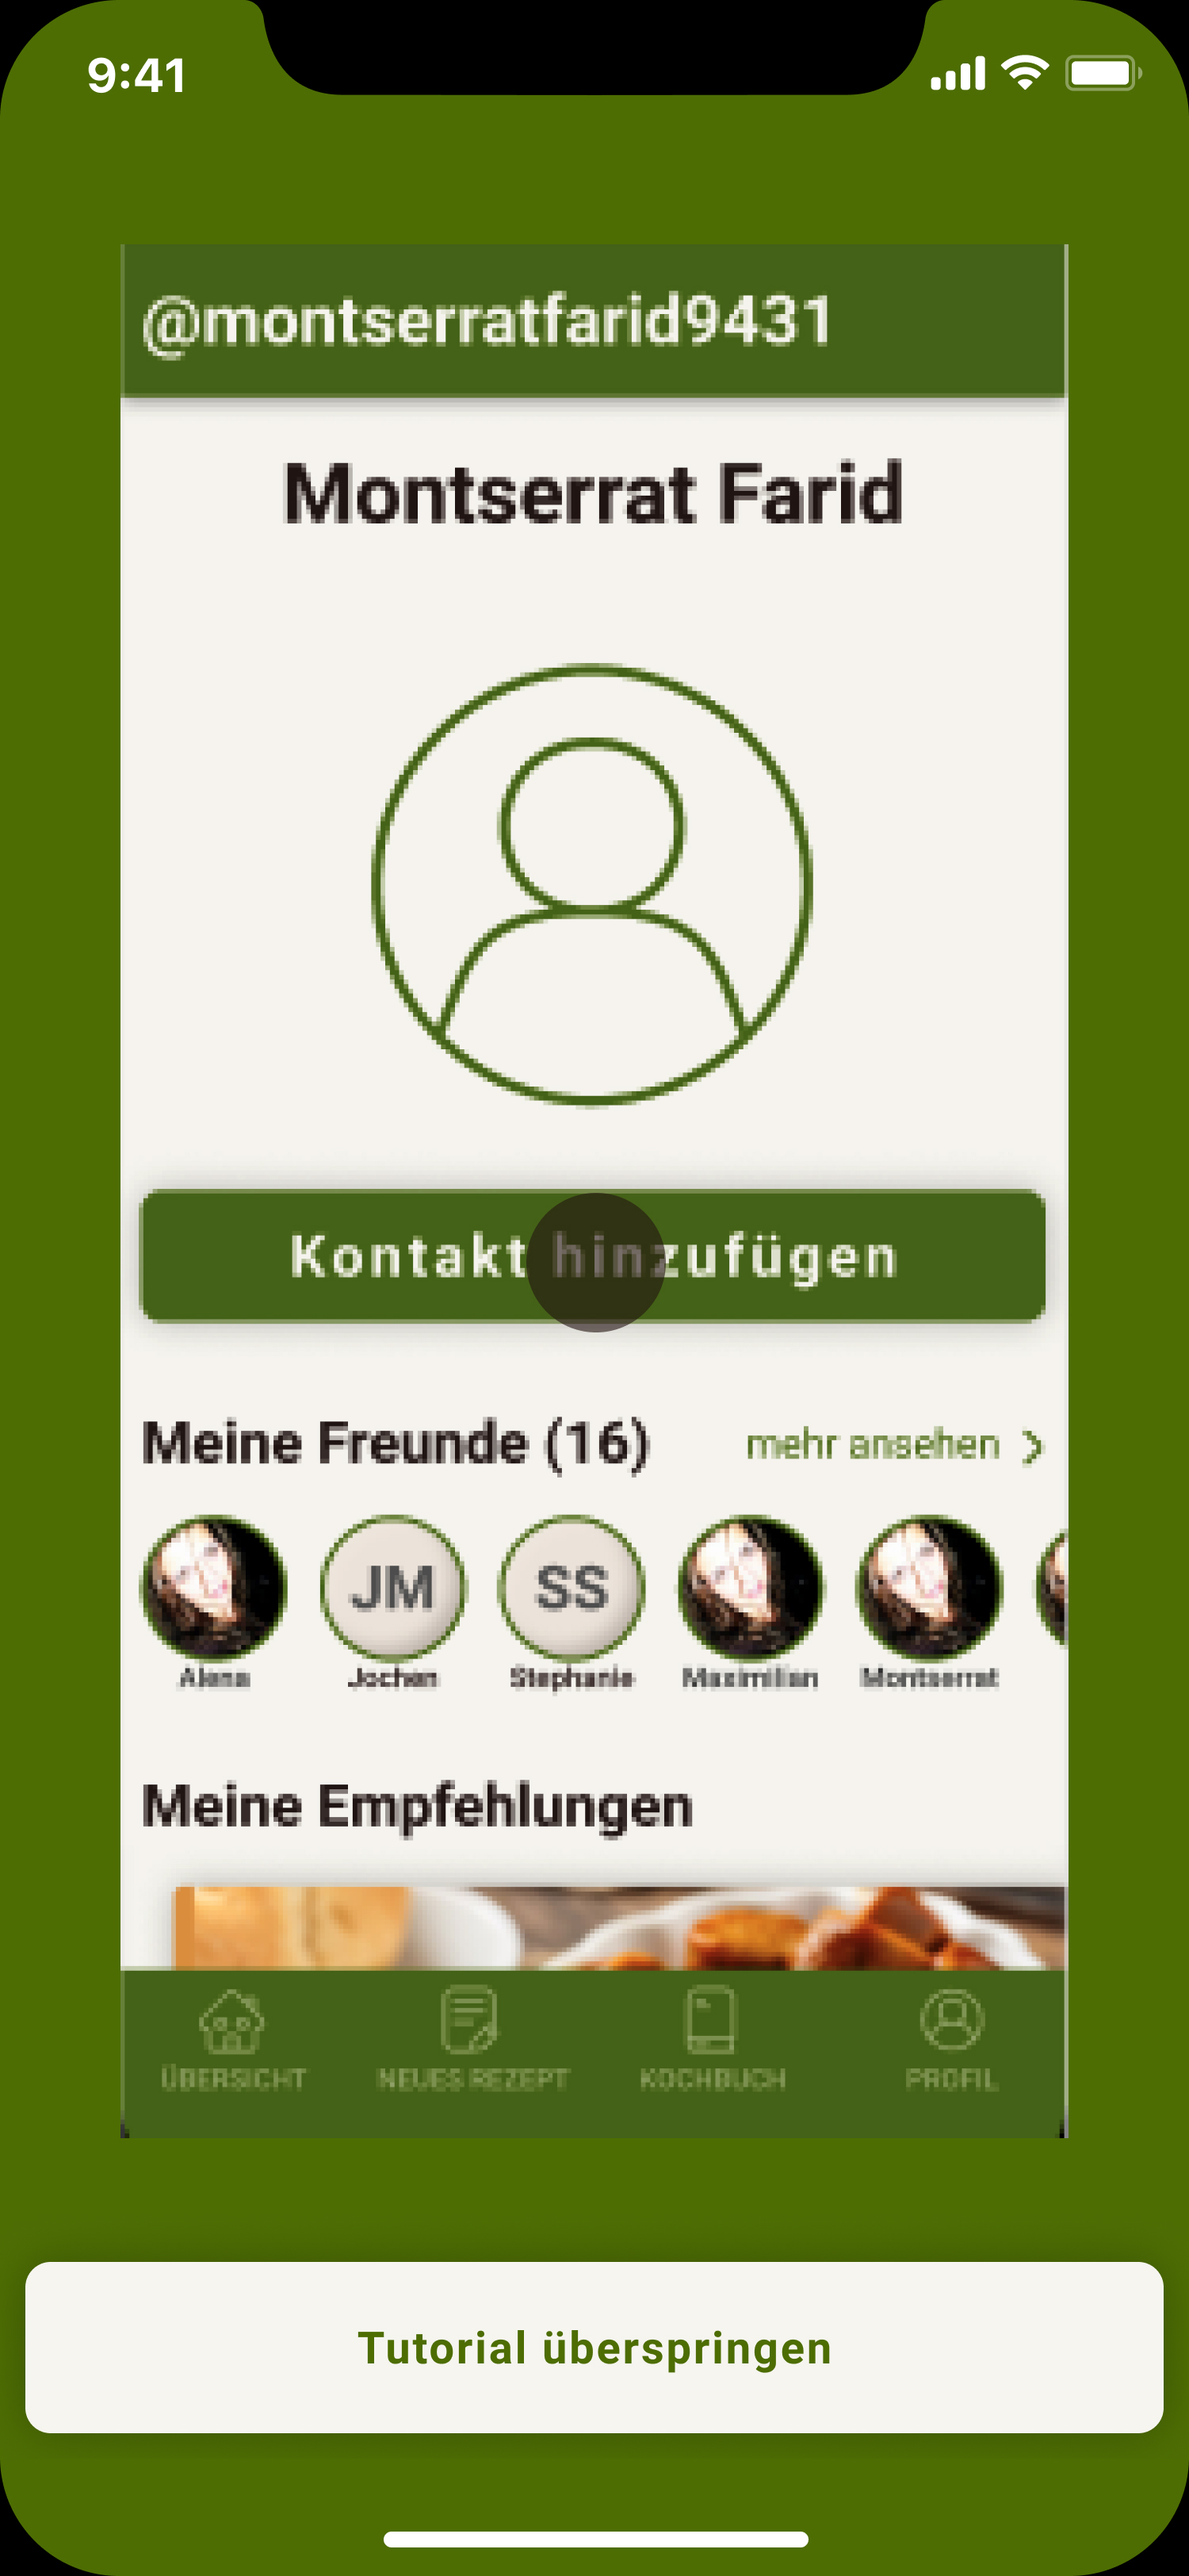
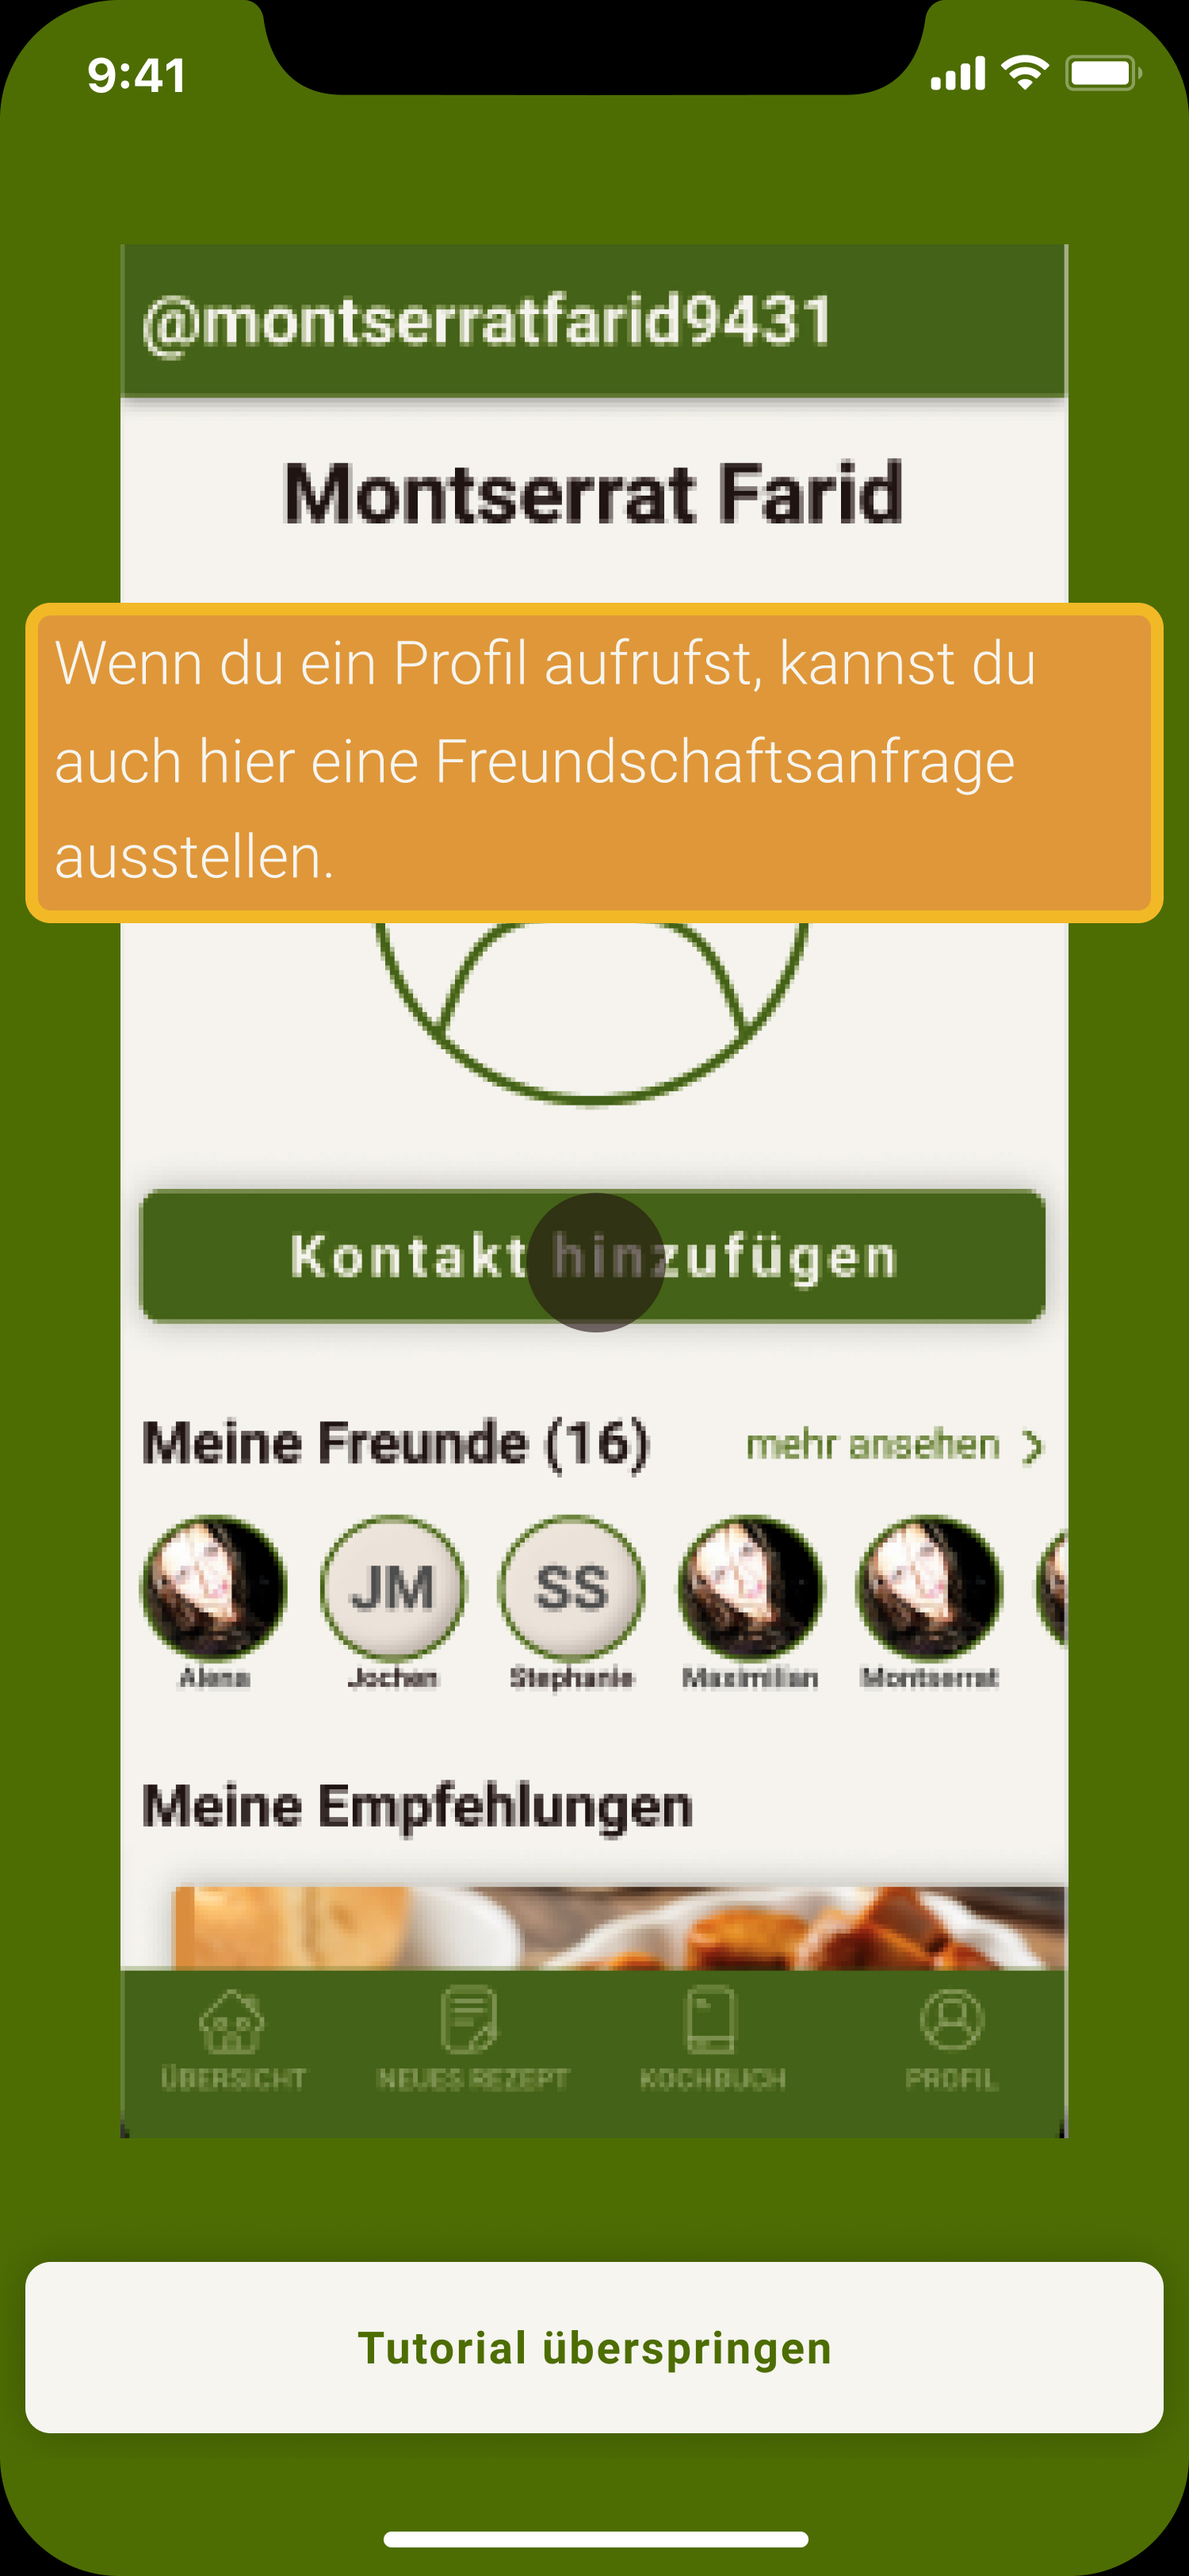
[FEATURE] Add tutorial text tips

Changed region(s): [[0.0, 0.2177, 0.9813, 0.3732]]

diff --git a/Artefakte/Zeiterfassung/Arbeitsmatrix.md b/Artefakte/Zeiterfassung/Arbeitsmatrix.md
@@ -140,10 +140,10 @@
 |          |                                     |                                                   |                 |                                                                  |                 |                     |                 |                 |
 | 22       | Interface Design                    | MockUps                                           | [FEATURE]       | Einführungsscreens                                               | 25.09.21        | 12.10.21            |                 | 1,25            |
 | 22       | Interface Design                    | MockUps                                           | [FEATURE]       | Einstellungsicons                                                | 25.09.21        | 12.10.21            |                 | 0,50            |
+| 22       | Interface Design                    | MockUps                                           | [FEATURE]       | Einführungskommentare                                            | 25.09.21        | 12.10.21            |                 | 0,50            |
 |          |                                     |                                                   |                 |                                                                  |                 |                     |                 |                 |
 |          |                                     |                                                   |                 |                                                                  |                 |                     |                 |                 |
-|          |                                     |                                                   |                 |                                                                  |                 |                     |                 |                 |
-|          | Stunden insgesamt                   | 304,5                                             | Stunden Seminar | 55                                                               | Stunden Projekt | 249,5               |                 |                 |
-|          |                                     |                                                   | Budget:         | 80                                                               | Budget:         | 65,5                |                 |                 |
+|          | Stunden insgesamt                   | 305                                               | Stunden Seminar | 55                                                               | Stunden Projekt | 250                 |                 |                 |
+|          |                                     |                                                   | Budget:         | 80                                                               | Budget:         | 65                  |                 |                 |
 |          | Kredits erreicht:                   | 11                                                |                 |                                                                  |                 |                     |                 |                 |
 |          | Kredits erfordert:                  | 15                                                |
